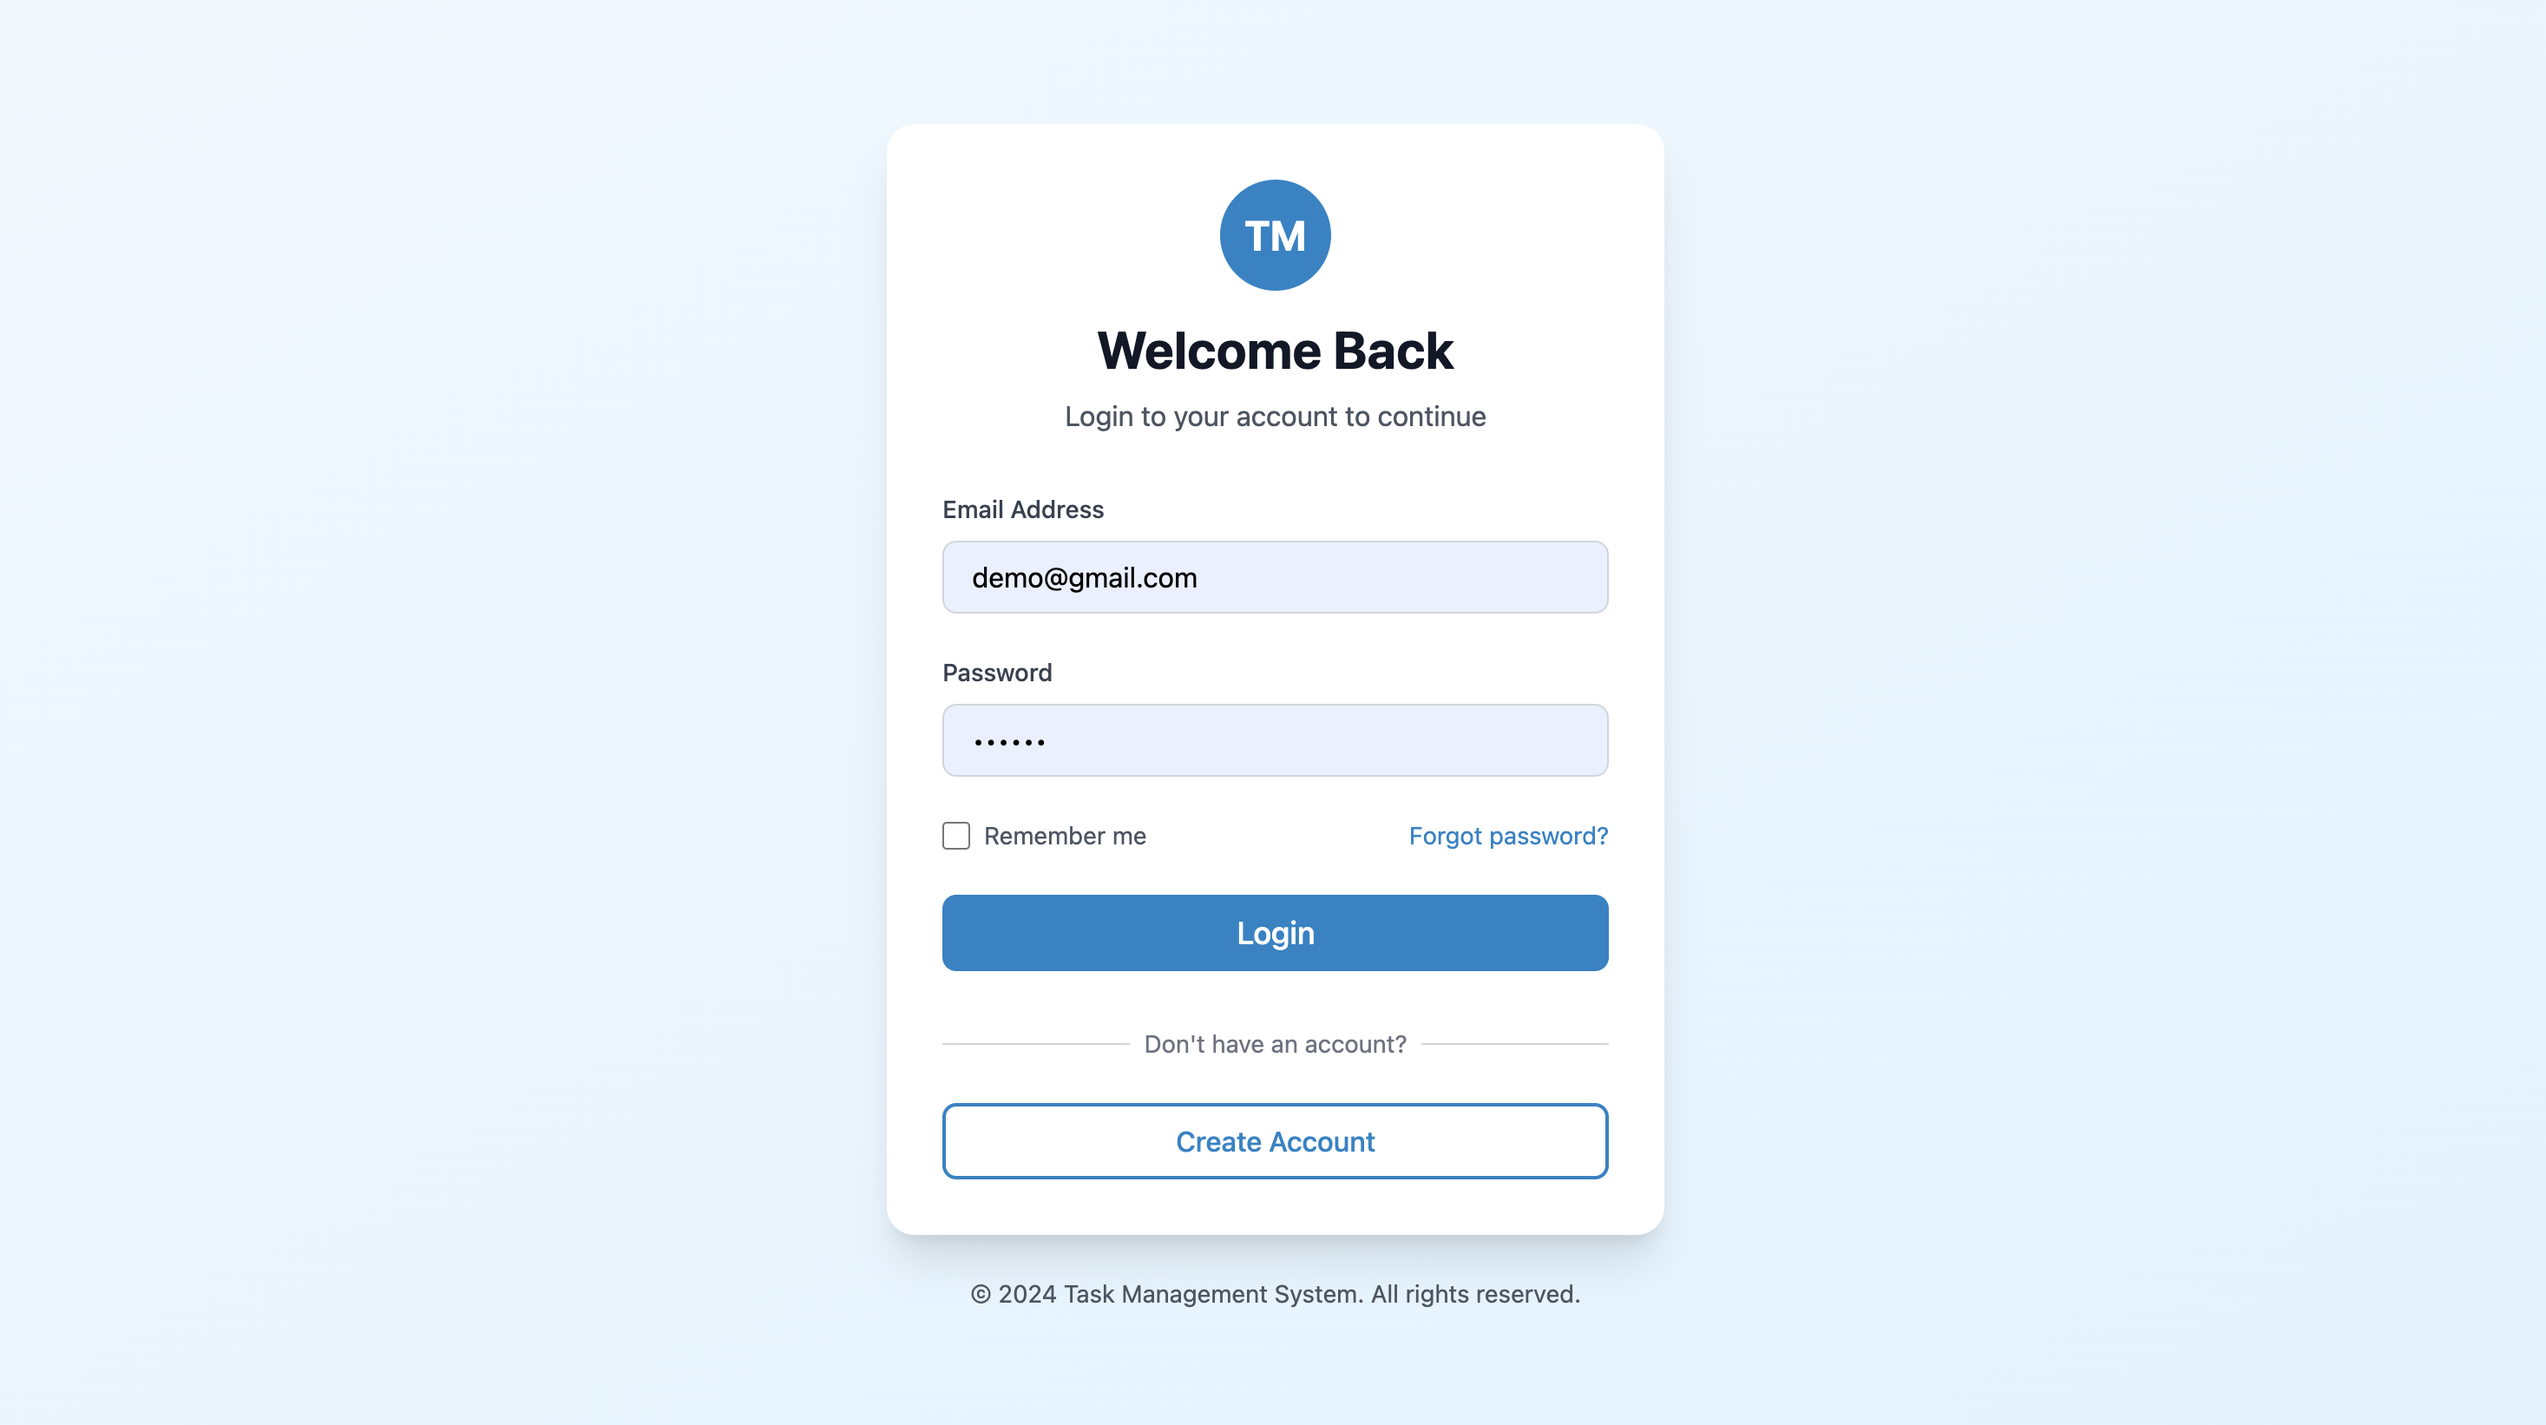
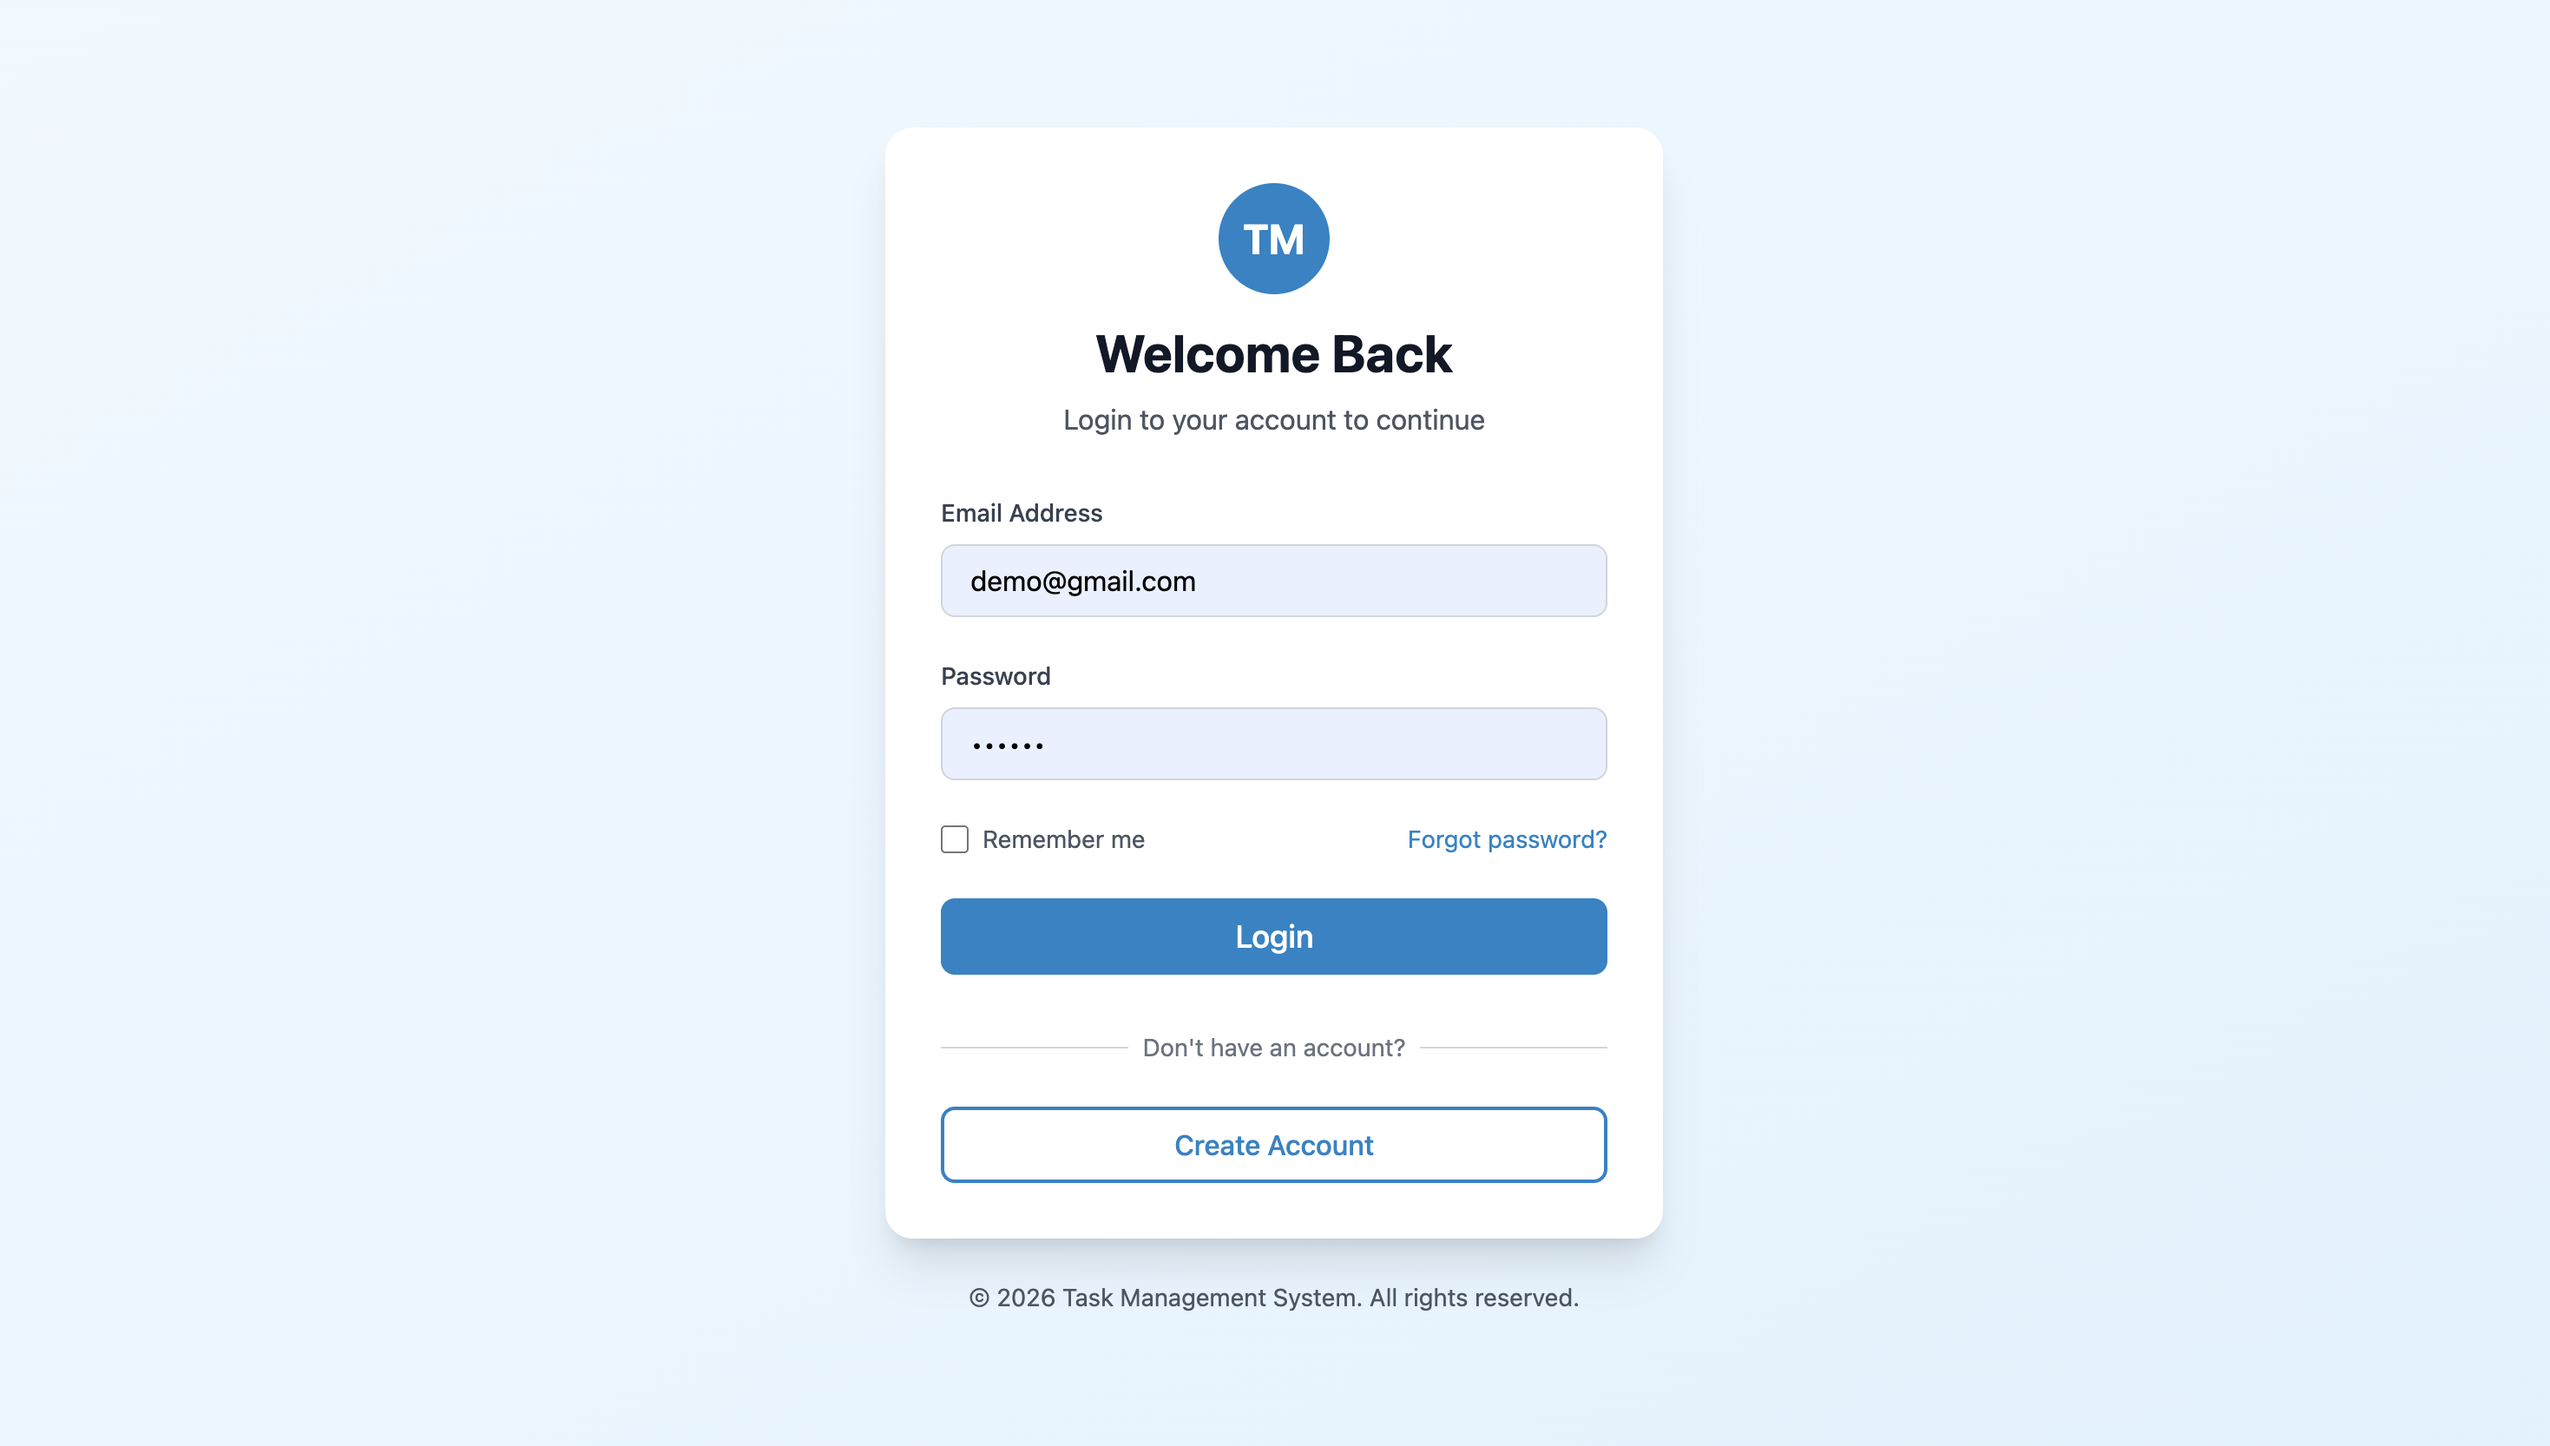
add screenshots

diff --git a/frontend/src/pages/Register.jsx b/frontend/src/pages/Register.jsx
@@ -202,7 +202,7 @@ function Register() {
 
         {/* Footer */}
         <p className="text-center text-gray-600 text-sm mt-6">
-          © 2024 Task Management System. All rights reserved.
+          © 2026 Task Management System. All rights reserved.
         </p>
       </div>
     </div>

diff --git a/frontend/src/pages/Login.jsx b/frontend/src/pages/Login.jsx
@@ -151,7 +151,7 @@ function Login() {
 
         {/* Footer */}
         <p className="text-center text-gray-600 text-sm mt-6">
-          © 2024 Task Management System. All rights reserved.
+          © 2026 Task Management System. All rights reserved.
         </p>
       </div>
     </div>

diff --git a/README.md b/README.md
@@ -13,8 +13,13 @@ A complete full-stack web application for managing tasks with user authenticatio
 ![Register Page](./screenshots/img2.png)
 *Create new user account with validation*
 
+### Create Task
+![create task](./screenshots/img3.png)
+*Create new task with upload file*
+
+
 ### Dashboard
-![Dashboard](./screenshots/img3.png)
+![Dashboard](./screenshots/img4.png)
 *Task management interface with create, view, and delete operations*
 
 ---
